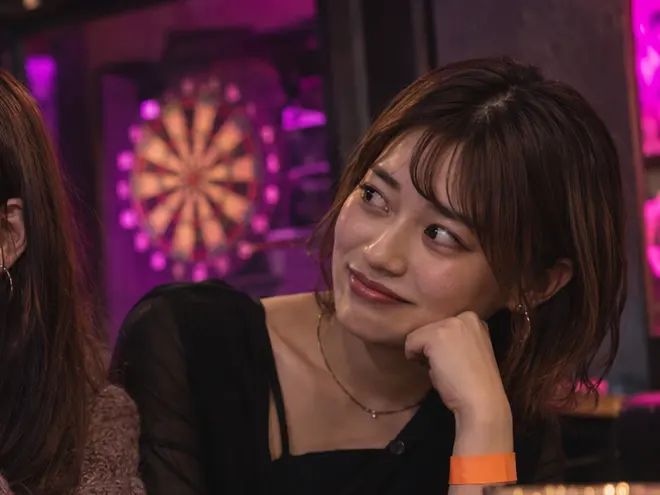
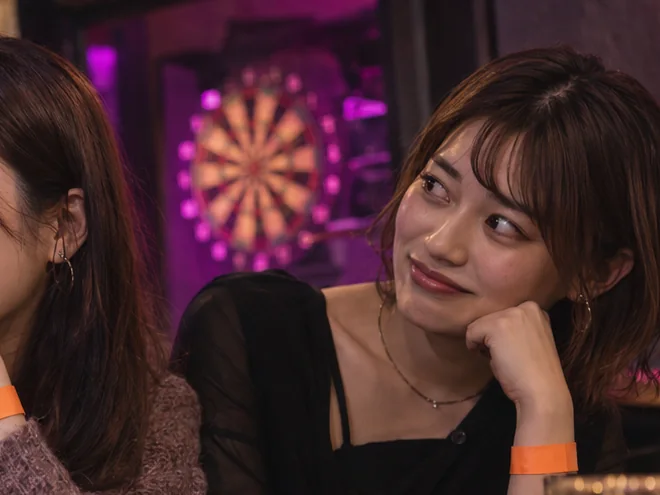
YOUR NIGHT をPCで実物と同じ構成にする（1枚＝画面高・左が文字・右が写真）
依頼者の指示。futuretrain の Future Imagination Course は「1枚＝画面高」だけでなく
構成そのものが違っていたので、そこを合わせる。

- 1枚 = calc(100svh - var(--header-h-pc))。ヘッダーが白い不透明の sticky（66px）
  なので引き、貼り付く位置もその下にする（1440で834px、1920で1014px）
- 左45%が文字、右55%が写真。カードは画面幅いっぱい。枠・角丸・影は外す
- 重なる仕組み（1枚目 sticky ＋ 後続 clip-path）はそのまま
- SPは変更なし。1枚1画面にすると節が3画面ぶんになり「長い」という指摘と逆になる
  （向こうも md: 以上だけの指定）

向こうは左3割・右7割だが、こちらは45/55にしている。支給写真が4人の集合写真1枚
（1902x827）しかなく、7割だと切り出し幅942pxが必要で、3枚が重なって1枚目と
2枚目がほぼ同じ絵になった。55%なら786px幅で主役を3人に割り当てられ、表示1.01倍
＝ほぼ原寸で出せる。写真素材が増えたら7割へ寄せてよい。

写真は支給原本 MIXBAND-CHIME01.png から切り直した。PC用 786x827 を3枚追加し、
SP用 660x495 も主役が揃うよう切り直して <picture> で出し分ける。alt も実際の絵に
合わせた。

踏んで直した罠を3つ記録した:
- sips --cropOffset は中央基準。以後、切り出しは PIL で座標指定する
- <picture> を挟むとグリッドの子は img ではなく picture。配置と高さはそちらへ
- グリッドの行が暗黙の auto だと子の height:100% が auto に落ち、写真が本来の比で
  伸びて 1920px でカードから97pxはみ出す。1440pxではたまたま一致していて
  気づけなかった。grid-template-rows: minmax(0, 1fr) を明示する

確認: 1920/1440/920/375 で横スクロールなし、写真がカードからはみ出さない、
1枚目が y=66 に貼り付き2枚目が覆う、店舗ダイアログの開閉、画像の欠けなし。
harness-check --staged は機械検査すべて pass。

diff --git a/src/scss/sections/_benefits.scss b/src/scss/sections/_benefits.scss
@@ -58,6 +58,15 @@
 
 }
 
+// **<picture> はグリッドの子になる。**中の img ではなくこちらへ配置と高さを効かせること。
+// 既定は inline なので、そのままだと高さ100%が効かず、写真が画像本来の比で
+// カードからはみ出す（2026-09-09、1920px幅で97pxはみ出していた。1440では
+// たまたま一致していて気づけなかった）。
+.stack__card > picture {
+  display: block;
+  min-width: 0;
+}
+
 // 写真はカードの上端いっぱい。4:3 で高さが揃う。
 .stack__photo {
   display: block;
@@ -101,31 +110,71 @@
 @media (min-width: 900px) {
   .benefits {
     padding-top: 150px;
-    padding-bottom: 170px;
+    padding-bottom: 0;
 
     .z { max-width: 720px; }
     .outline-word { right: -34px; top: 96px; font-size: 116px; }
   }
 
-  .stack { margin-top: 56px; }
+  // **構成を futuretrain の Future Imagination Course に合わせる**（2026-09-09 の指示）。
+  // 実物を1440pxで見て取った構成 —— 1枚＝画面高、左に細い文字の列、右に大きな写真、
+  // 写真は画面の右端まで届く。カードの枠・角丸・影は無い。
+  // 重なる仕組み（1枚目 sticky ＋ 後続 clip-path）はそのまま。
+  .stack {
+    margin-top: 56px;
+    // カードを画面幅いっぱいにする。FVと同じ手（50% は自分の領域幅、50vw は画面幅）。
+    margin-inline: calc(50% - 50vw);
+  }
 
   .stack__card {
     display: grid;
-    grid-template-columns: 46% 1fr;
-    align-items: center;
+    // 左が読む列、右が写真。**向こうも左3割・右7割。**
+    // **向こうは左3割・右7割だが、こちらは左45%・右55%にしている。**
+    // 支給写真が4人の集合写真1枚（1902x827）しかなく、写真枠を7割（950px）にすると
+    // 切り出し幅が942px必要になり、3枚が重なって1枚目と2枚目がほぼ同じ絵になった
+    // （2026-09-09、実際に切って並べて確認）。55%なら786px幅で3人を割り当てられて、
+    // かつ原寸ほぼ等倍で出せる。**写真が増えたら7割へ寄せてよい。**
+    grid-template-columns: 45% 1fr;
+    // **行を明示すること。**暗黙の auto 行だと高さが内容依存になり、
+    // 子の height:100% が auto に落ちて写真が画像本来の比で伸びる
+    // （2026-09-09、1920px幅でカードから97pxはみ出していた）。
+    grid-template-rows: minmax(0, 1fr);
+    align-items: stretch;
+    height: calc(100svh - var(--header-h-pc));
+    // 画面が低いときの下限。これを下回るとカードの中身が潰れる。
+    min-height: 480px;
+    // 画面端まで届かせるので、枠・角丸・影は持たせない。
+    border: 0;
+    border-radius: 0;
+    box-shadow: none;
+    clip-path: inset(0);
 
-    &:first-child { top: 96px; }
+    &:first-child { top: var(--header-h-pc); clip-path: none; }
   }
 
-  .stack__photo { height: 100%; aspect-ratio: auto; }
+  // 写真は右。カードの高さいっぱいに、端まで。**配置は picture に効かせる。**
+  .stack__card > picture {
+    grid-column: 2;
+    grid-row: 1;
+    min-height: 0;
+  }
 
+  .stack__photo {
+    height: 100%;
+    aspect-ratio: auto;
+  }
+
+  // 文字は左。ページの左余白に合わせて、本文の頭を他の節と揃える。
   .stack__body {
-    padding: 40px 44px;
+    grid-column: 1;
+    grid-row: 1;
+    align-content: center;
     grid-template-columns: 54px 1fr;
-    gap: 20px;
+    gap: 20px 22px;
+    padding: 0 48px 0 var(--pc-edge);
 
-    h3 { font-size: 24px; margin-bottom: 10px; }
-    p { font-size: 15px; }
+    h3 { font-size: 28px; margin-bottom: 14px; }
+    p { font-size: 16px; }
   }
 
   .card__num { width: 54px; height: 54px; font-size: 14px; }

diff --git a/index.html b/index.html
@@ -110,22 +110,34 @@
          その上をせり上がって覆う。**3枚とも常にDOMに在る。**
          親セクションは overflow:hidden にしないこと（sticky が死ぬ）。 -->
     <div class="stack">
-      <!-- 写真は支給された MIXBAND-CHIME01.png（1902x827）から、人物ごとに
-           660x495 で切り出したもの。**別々の人・別々の表情**を選んでいる。
-           カードは重なって1枚ずつ見えるので、同じ場面から切っても並んで見えることがない。 -->
+      <!-- 写真は支給された MIXBAND-CHIME01.png（1902x827）からの切り出し。
+           **SPとPCで枠の比が違うので2種類持つ。**SPはカード上端に敷く 660x495（4:3）、
+           PCは1枚＝画面高の右列に入る 786x827。どちらも **別々の人が主役**になる位置で
+           切っている（01 カードを持つ男性 / 02 笑う男性 / 03 右の女性）。
+           切り出しは PIL で座標指定。**sips の --cropOffset は中央基準で効くので使わない**
+           （2026-09-09、左端0のつもりが中央が出てきて、1枚目と2枚目がほぼ同じ絵になった）。 -->
       <article class="stack__card">
-        <img class="stack__photo" src="img/night-01.webp" width="660" height="495"
-             alt="ASOBIBARのカウンターで、オレンジのリストバンドを付けた男性が声を上げて笑っている">
+        <picture>
+          <source media="(min-width: 900px)" srcset="img/night-01-pc.webp" width="786" height="827">
+          <img class="stack__photo" src="img/night-01.webp" width="660" height="495"
+             alt="ASOBIBARのカウンターで、オレンジのリストバンドを付けた男性がカードを手に笑みを浮かべている">
+        </picture>
         <div class="stack__body"><span class="card__num">01</span><div><h3>いつもと違う刺激</h3><p>普段の来店とは違う高揚感を楽しむ。</p></div></div>
       </article>
       <article class="stack__card">
-        <img class="stack__photo" src="img/night-02.webp" width="660" height="495"
-             alt="口を手で覆って驚いている女性。手首にオレンジのリストバンド">
+        <picture>
+          <source media="(min-width: 900px)" srcset="img/night-02-pc.webp" width="786" height="827">
+          <img class="stack__photo" src="img/night-02.webp" width="660" height="495"
+             alt="声を上げて笑う男性と、口を手で覆って驚く女性。ふたりともオレンジのリストバンドを付けている">
+        </picture>
         <div class="stack__body"><span class="card__num">02</span><div><h3>関係が動くきっかけ</h3><p>気持ちが揺れ動く瞬間に出会う。</p></div></div>
       </article>
       <article class="stack__card">
-        <img class="stack__photo" src="img/night-03.webp" width="660" height="495"
-             alt="頬づえをついて微笑む女性。背景にダーツボードのネオン">
+        <picture>
+          <source media="(min-width: 900px)" srcset="img/night-03-pc.webp" width="786" height="827">
+          <img class="stack__photo" src="img/night-03.webp" width="660" height="495"
+             alt="カウンターで頬づえをついて微笑む女性。背景にダーツボードのネオン">
+        </picture>
         <div class="stack__body"><span class="card__num">03</span><div><h3>非日常を体験</h3><p>恋愛リアリティショーの中へ入る。</p></div></div>
       </article>
     </div>

diff --git a/css/style.css b/css/style.css
@@ -25,6 +25,7 @@
   --page-max: 430px;
   --page-max-pc: 1280px;
   --pc-gutter: 80px;
+  --header-h-pc: 66px;
   --pc-content: calc(var(--page-max-pc) - var(--pc-gutter) * 2);
   --pc-edge: max(var(--pc-gutter), calc((100% - var(--pc-content)) / 2));
 }
@@ -634,6 +635,11 @@ img {
   margin-top: 0;
 }
 
+.stack__card > picture {
+  display: block;
+  min-width: 0;
+}
+
 .stack__photo {
   display: block;
   width: 100%;
@@ -683,7 +689,7 @@ img {
 @media (min-width: 900px) {
   .benefits {
     padding-top: 150px;
-    padding-bottom: 170px;
+    padding-bottom: 0;
   }
   .benefits .z {
     max-width: 720px;
@@ -695,30 +701,47 @@ img {
   }
   .stack {
     margin-top: 56px;
+    margin-inline: calc(50% - 50vw);
   }
   .stack__card {
     display: grid;
-    grid-template-columns: 46% 1fr;
-    align-items: center;
+    grid-template-columns: 45% 1fr;
+    grid-template-rows: minmax(0, 1fr);
+    align-items: stretch;
+    height: calc(100svh - var(--header-h-pc));
+    min-height: 480px;
+    border: 0;
+    border-radius: 0;
+    box-shadow: none;
+    clip-path: inset(0);
   }
   .stack__card:first-child {
-    top: 96px;
+    top: var(--header-h-pc);
+    clip-path: none;
+  }
+  .stack__card > picture {
+    grid-column: 2;
+    grid-row: 1;
+    min-height: 0;
   }
   .stack__photo {
     height: 100%;
     aspect-ratio: auto;
   }
   .stack__body {
-    padding: 40px 44px;
+    grid-column: 1;
+    grid-row: 1;
+    align-content: center;
     grid-template-columns: 54px 1fr;
-    gap: 20px;
+    gap: 20px 22px;
+    padding: 0 48px 0 var(--pc-edge);
   }
   .stack__body h3 {
-    font-size: 24px;
-    margin-bottom: 10px;
+    font-size: 28px;
+    margin-bottom: 14px;
   }
   .stack__body p {
-    font-size: 15px;
+    font-size: 16px;
   }
   .card__num {
     width: 54px;

diff --git a/src/scss/_tokens.scss b/src/scss/_tokens.scss
@@ -33,6 +33,10 @@
   --page-max: 430px;
   --page-max-pc: 1280px;
   --pc-gutter: 80px;
+  // PCのヘッダーの実測高さ（padding 16 + ロゴ 34 + padding 16）。
+  // **YOUR NIGHT のカード高さがこの値に依存している**（1枚＝画面高 − ヘッダー）。
+  // ヘッダーの padding かロゴ幅を変えたら、ここも測り直すこと。
+  --header-h-pc: 66px;
   // 中身の列幅。コンテナ1280 から左右80を引いた値（= 1120px）。
   --pc-content: calc(var(--page-max-pc) - var(--pc-gutter) * 2);
   // 節の左右余白。**背景は全幅に走らせ、中身だけ --pc-content で中央に留めるための値。**

diff --git a/docs/exec-plans/completed/lp-adjust-p1-p6.md b/docs/exec-plans/completed/lp-adjust-p1-p6.md
@@ -208,7 +208,31 @@
 - **自分の記述も1つ訂正した。**「カード間に隙間を空けない」と書いていたが、実物は
   `mt-14`（56px）を空けている。推測で書いていた。当LPは隙間0のままで重なっているので
   実装は変えないが、根拠が誤っていた。
-- LPの見た目は変更していない（依頼者の選択「A」）。100vh化は見送り。
+- **その後、依頼者が「B」を選択** —— YOUR NIGHT のカードをPCで1枚＝画面高にし、
+  さらに「そもそも構成が違う」との指摘で、実物と同じ **左が文字・右が大きな写真・
+  画面幅いっぱい** の構成へ組み直した。詳細は下記。
+
+**追加対応（YOUR NIGHT をPCで実物と同じ構成にする）**
+
+- 1枚＝`calc(100svh - var(--header-h-pc))`。ヘッダーが白い不透明の sticky（66px）なので
+  その分を引き、貼り付く位置もヘッダーの下にした（1440で834px、1920で1014px）。
+- **左45%が文字・右55%が写真。**カードは画面幅いっぱい。枠・角丸・影は外した。
+  **向こうは左3割・右7割だが、こちらは45/55** —— 支給写真が4人の集合写真1枚しかなく、
+  7割（942px幅の切り出し）だと3枚が重なって1枚目と2枚目がほぼ同じ絵になった。
+- 写真を支給原本 `MIXBAND-CHIME01.png` から切り直した。**PC用 786x827 を新規に3枚**
+  （`night-0X-pc.webp`）、**SP用 660x495 も主役が揃うよう切り直し**、`<picture>` で
+  出し分ける。表示は1440で1.01倍＝ほぼ原寸。alt も実際の絵に合わせて書き換えた。
+- **SPは変更なし**（4:3のまま。1枚1画面にすると節が3画面ぶんになりP6と逆になる）。
+
+**踏んで直した罠（記録済み）**
+
+- `sips --cropOffset` は**中央基準**。左端0のつもりが中央が出て、1枚目と2枚目が
+  ほぼ同じ絵になった。以後、切り出しは PIL で座標指定する。
+- `<picture>` を挟むと**グリッドの子は img ではなく picture** になる。配置と高さは
+  picture へ効かせる。
+- グリッドの行を暗黙の auto のままにすると子の `height:100%` が auto に落ち、
+  写真が本来の比で伸びてカードから **1920pxで97pxはみ出していた**。1440pxでは
+  たまたま高さが一致していて気づけなかった。`grid-template-rows: minmax(0, 1fr)` を明示。
 
 **検査結果**
 
